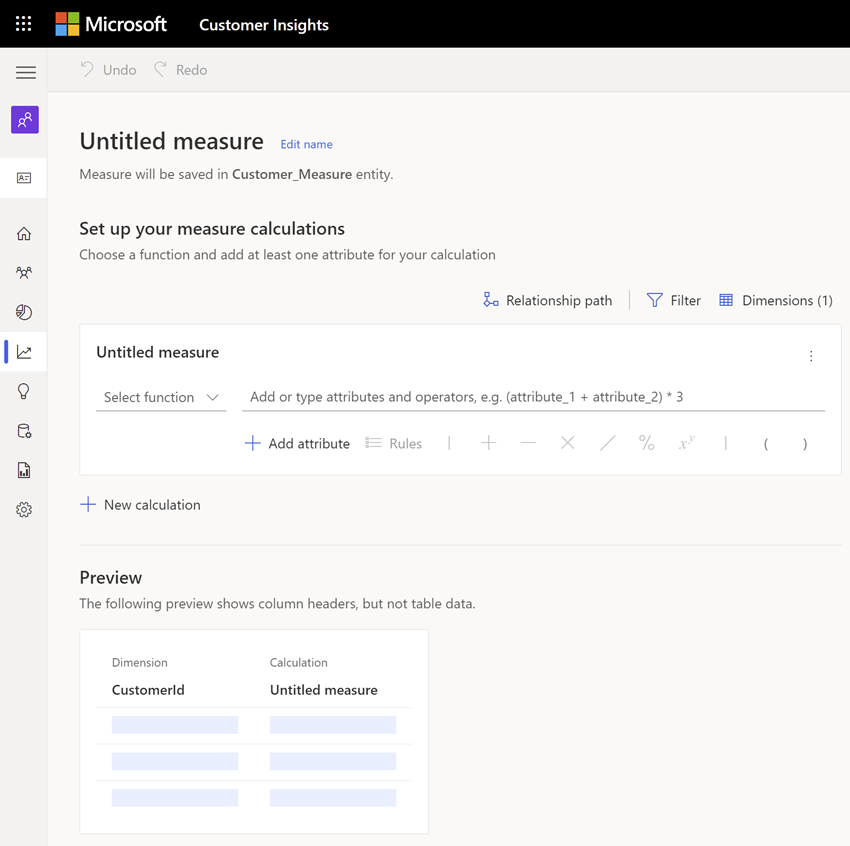
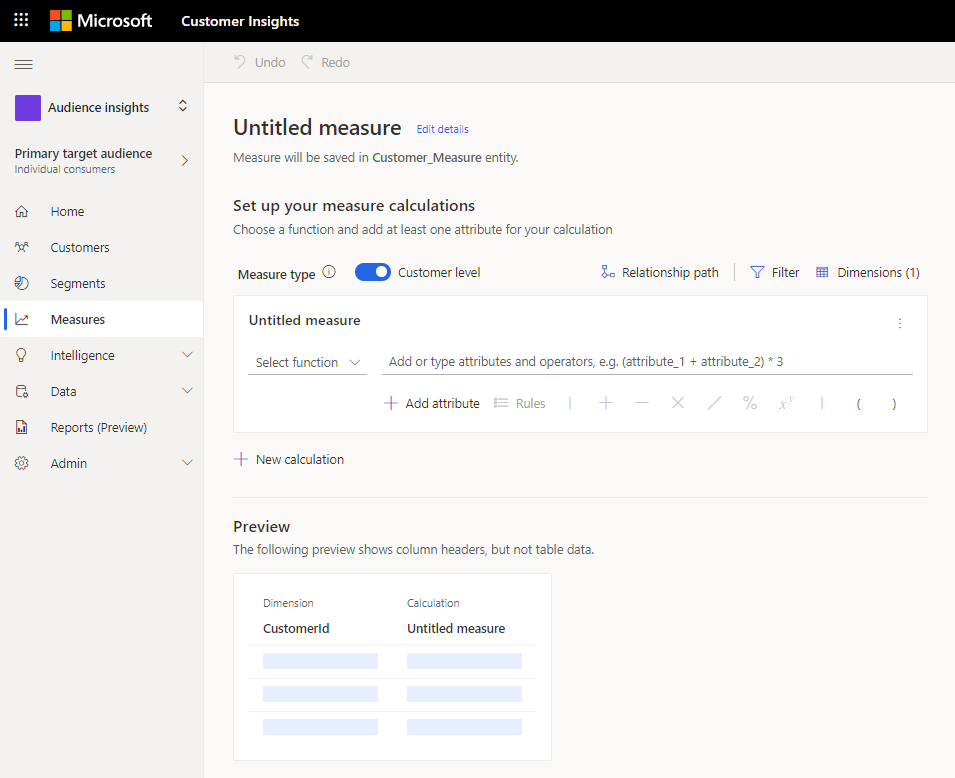
new measures toggle

diff --git a/ci-docs/audience-insights/measure-builder.md b/ci-docs/audience-insights/measure-builder.md
@@ -38,6 +38,8 @@ You can create measures on the level of individual customers (customer attribute
 
    :::image type="content" source="media/measure-b2c.png" alt-text="Empty configuration screen for a B-to-C measure. ":::
 
+1. To track business-level performance, toggle **Measure type** to **Business level**. **Customer level** is selected by default. **Customer level** automatically adds the *CustomerId* attribute to Dimensions while **Business level** will remove it.
+
 1. In the configuration area, choose the aggregation function from the **Select function** dropdown menu. Aggregation functions include:
    - **Sum**
    - **Average**
@@ -68,7 +70,9 @@ You can create measures on the level of individual customers (customer attribute
 
 1. Select **Dimension** to choose more fields that are added as columns to the measure output entity.
 
-   1. Select **Edit dimensions** to add data attributes you want to group the measure values by. For example, city or gender. By default, the *CustomerID* dimension is selected to create *customer-level measures*. You can remove the default dimension if you want to create *business-level measures*.
+   1. Select **Edit dimensions** to add data attributes you want to group the measure values by. For example, city or gender.
+   > [!TIP]
+   > If you selected **Customer level** as the **Measure type** the *CustomerId* attribute is already added. If you remove the attribute, **Measure type** switches to **Business level**.
    1. Select **Done** to add the dimensions to the measure.
 
 1. If there are values in your data that you need to replace with an integer, select **Rules**. Configure the rule and make sure that you choose only whole numbers as replacements. For example, replace *null* with *0*.
@@ -106,8 +110,6 @@ You can create measures on the level of individual accounts (customer measure) o
 
    :::image type="content" source="media/measure-b2b.png" alt-text="Empty configuration screen for a B-to-B measure. ":::
 
-1. Select **Edit name** and provide a **Name** for the measure.
-
 1. In the configuration area, choose the aggregation function from the **Select function** dropdown menu. Aggregation functions include:
    - **Sum**
    - **Average**
@@ -136,7 +138,9 @@ You can create measures on the level of individual accounts (customer measure) o
 
 1. Select **Dimension** to choose more fields that are added as columns to the measure output entity.
 
-   1. Select **Edit dimensions** to add data attributes you want to group the measure values by. For example, city or gender. By default, the *CustomerID* dimension is selected to create *customer-level measures*. You can remove the default dimension if you want to create *business-level measures*.
+   1. Select **Edit dimensions** to add data attributes you want to group the measure values by. For example, city or gender. 
+      > [!TIP]
+      > If you selected **Customer level** as the **Measure type** the *CustomerId* attribute is already added. If you remove the attribute, **Measure type** switches to **Business level**.
    1. Select **Done** to add the dimensions to the measure.
 
 1. If there are values in your data that you need to replace with an integer, select **Rules**. Configure the rule and make sure that you choose only whole numbers as replacements. For example, replace *null* with *0*.
@@ -153,6 +157,10 @@ You can create measures on the level of individual accounts (customer measure) o
 1. Select **...** on the calculation to **Duplicate**, **Rename**, or **Remove** a calculation from a measure.
 
 1. In the **Preview** area, you'll see the data schema of the measure output entity, including filters and dimensions. The preview reacts dynamically to changes in the configuration.
+
+1. Select **Edit details** next to Untitled measure. Provide a name for the measure. Optionally, add [tags](work-with-tags-columns.md#manage-tags) to the measure.
+
+   :::image type="content" source="media/measures_edit_details.png" alt-text="Edit details dialog box.":::
 
 1. Select **Run** to calculate results for the configured measure. Select **Save and close** if you want to keep the current configuration and run the measure later.
 

diff --git a/ci-docs/audience-insights/find-similar-customer-segments.md b/ci-docs/audience-insights/find-similar-customer-segments.md
@@ -42,9 +42,9 @@ This feature lets you find similar customers in your customer base using artific
 
 1. Choose if you want to include **All customers** or only customers in a **Specific existing segment** in your new segment.
 
-1. Exclude customers in your source segment by selecting the **Exclude everyone in source segment** checkbox.
-
 1. By default, the system suggests including only 20% of the target audience size in your output. Edit this threshold as needed. Increasing the threshold will reduce the precision.
+
+1. Include customers in your source segment by selecting the **Include members from source segment in addition to customers with similar attributes** checkbox.
 
 1. Select **Run** at the bottom of the page to start a binary classification task (a method of machine learning) which analyzes the dataset.
 
